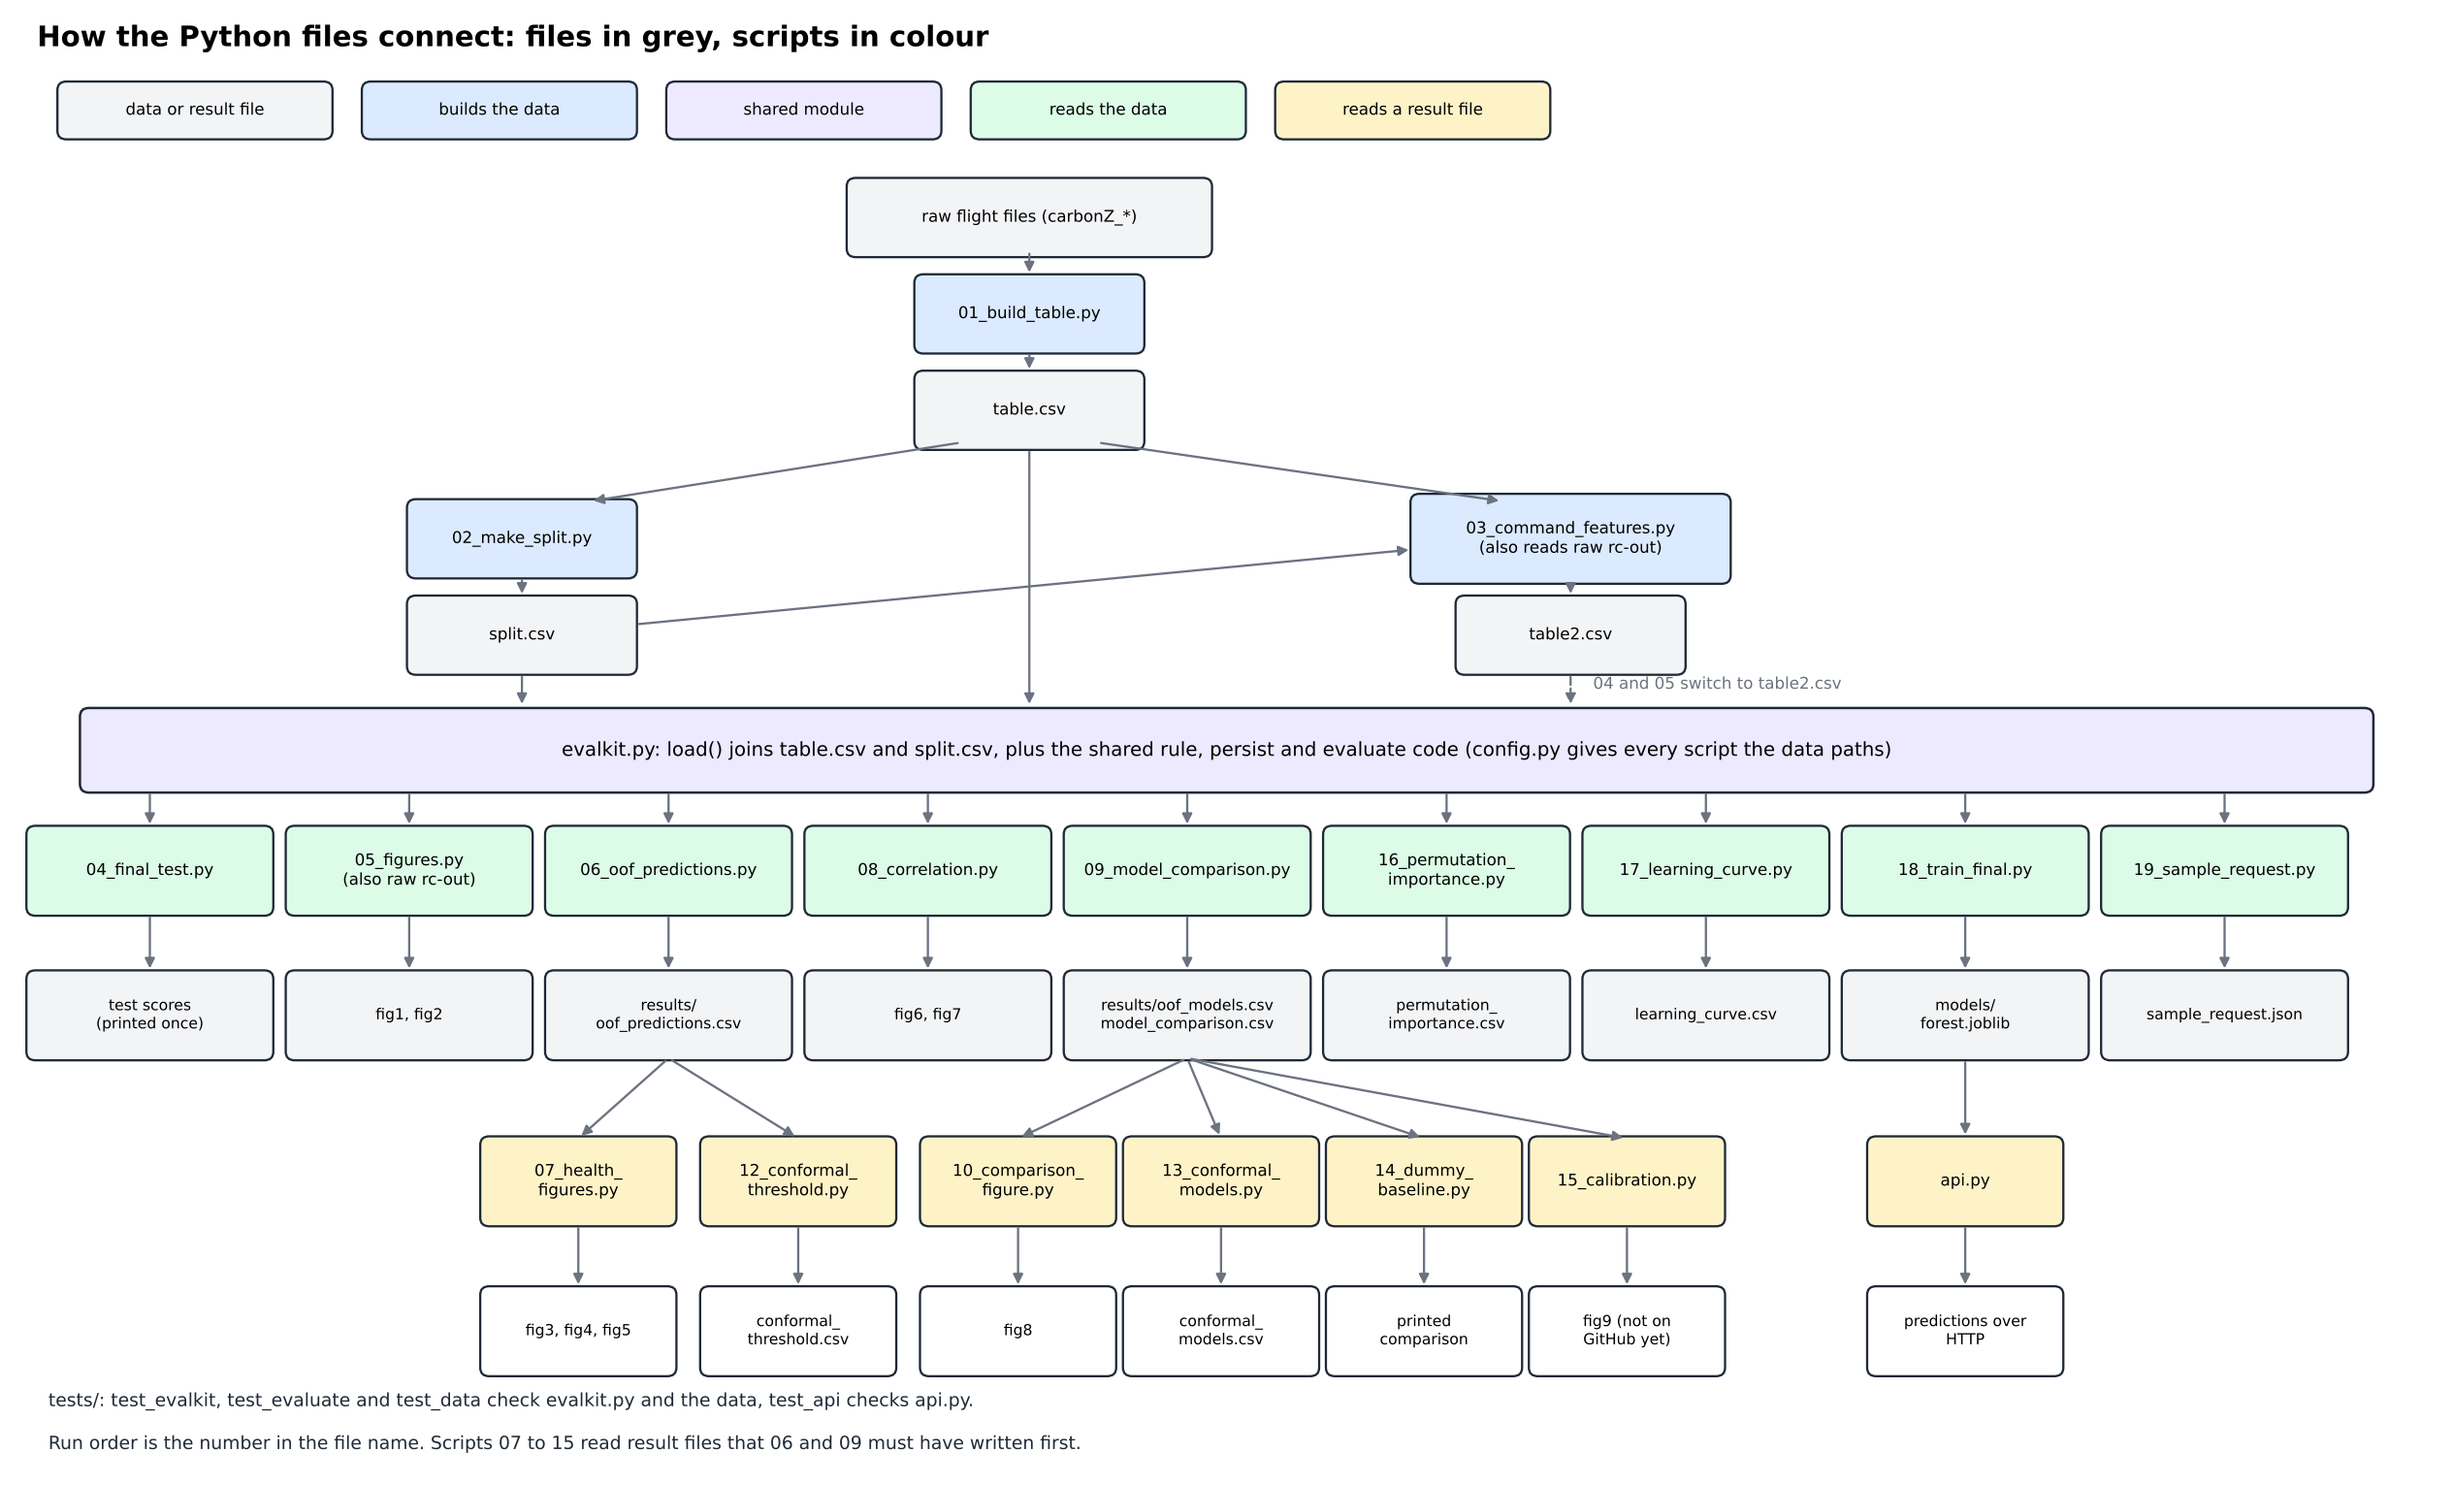
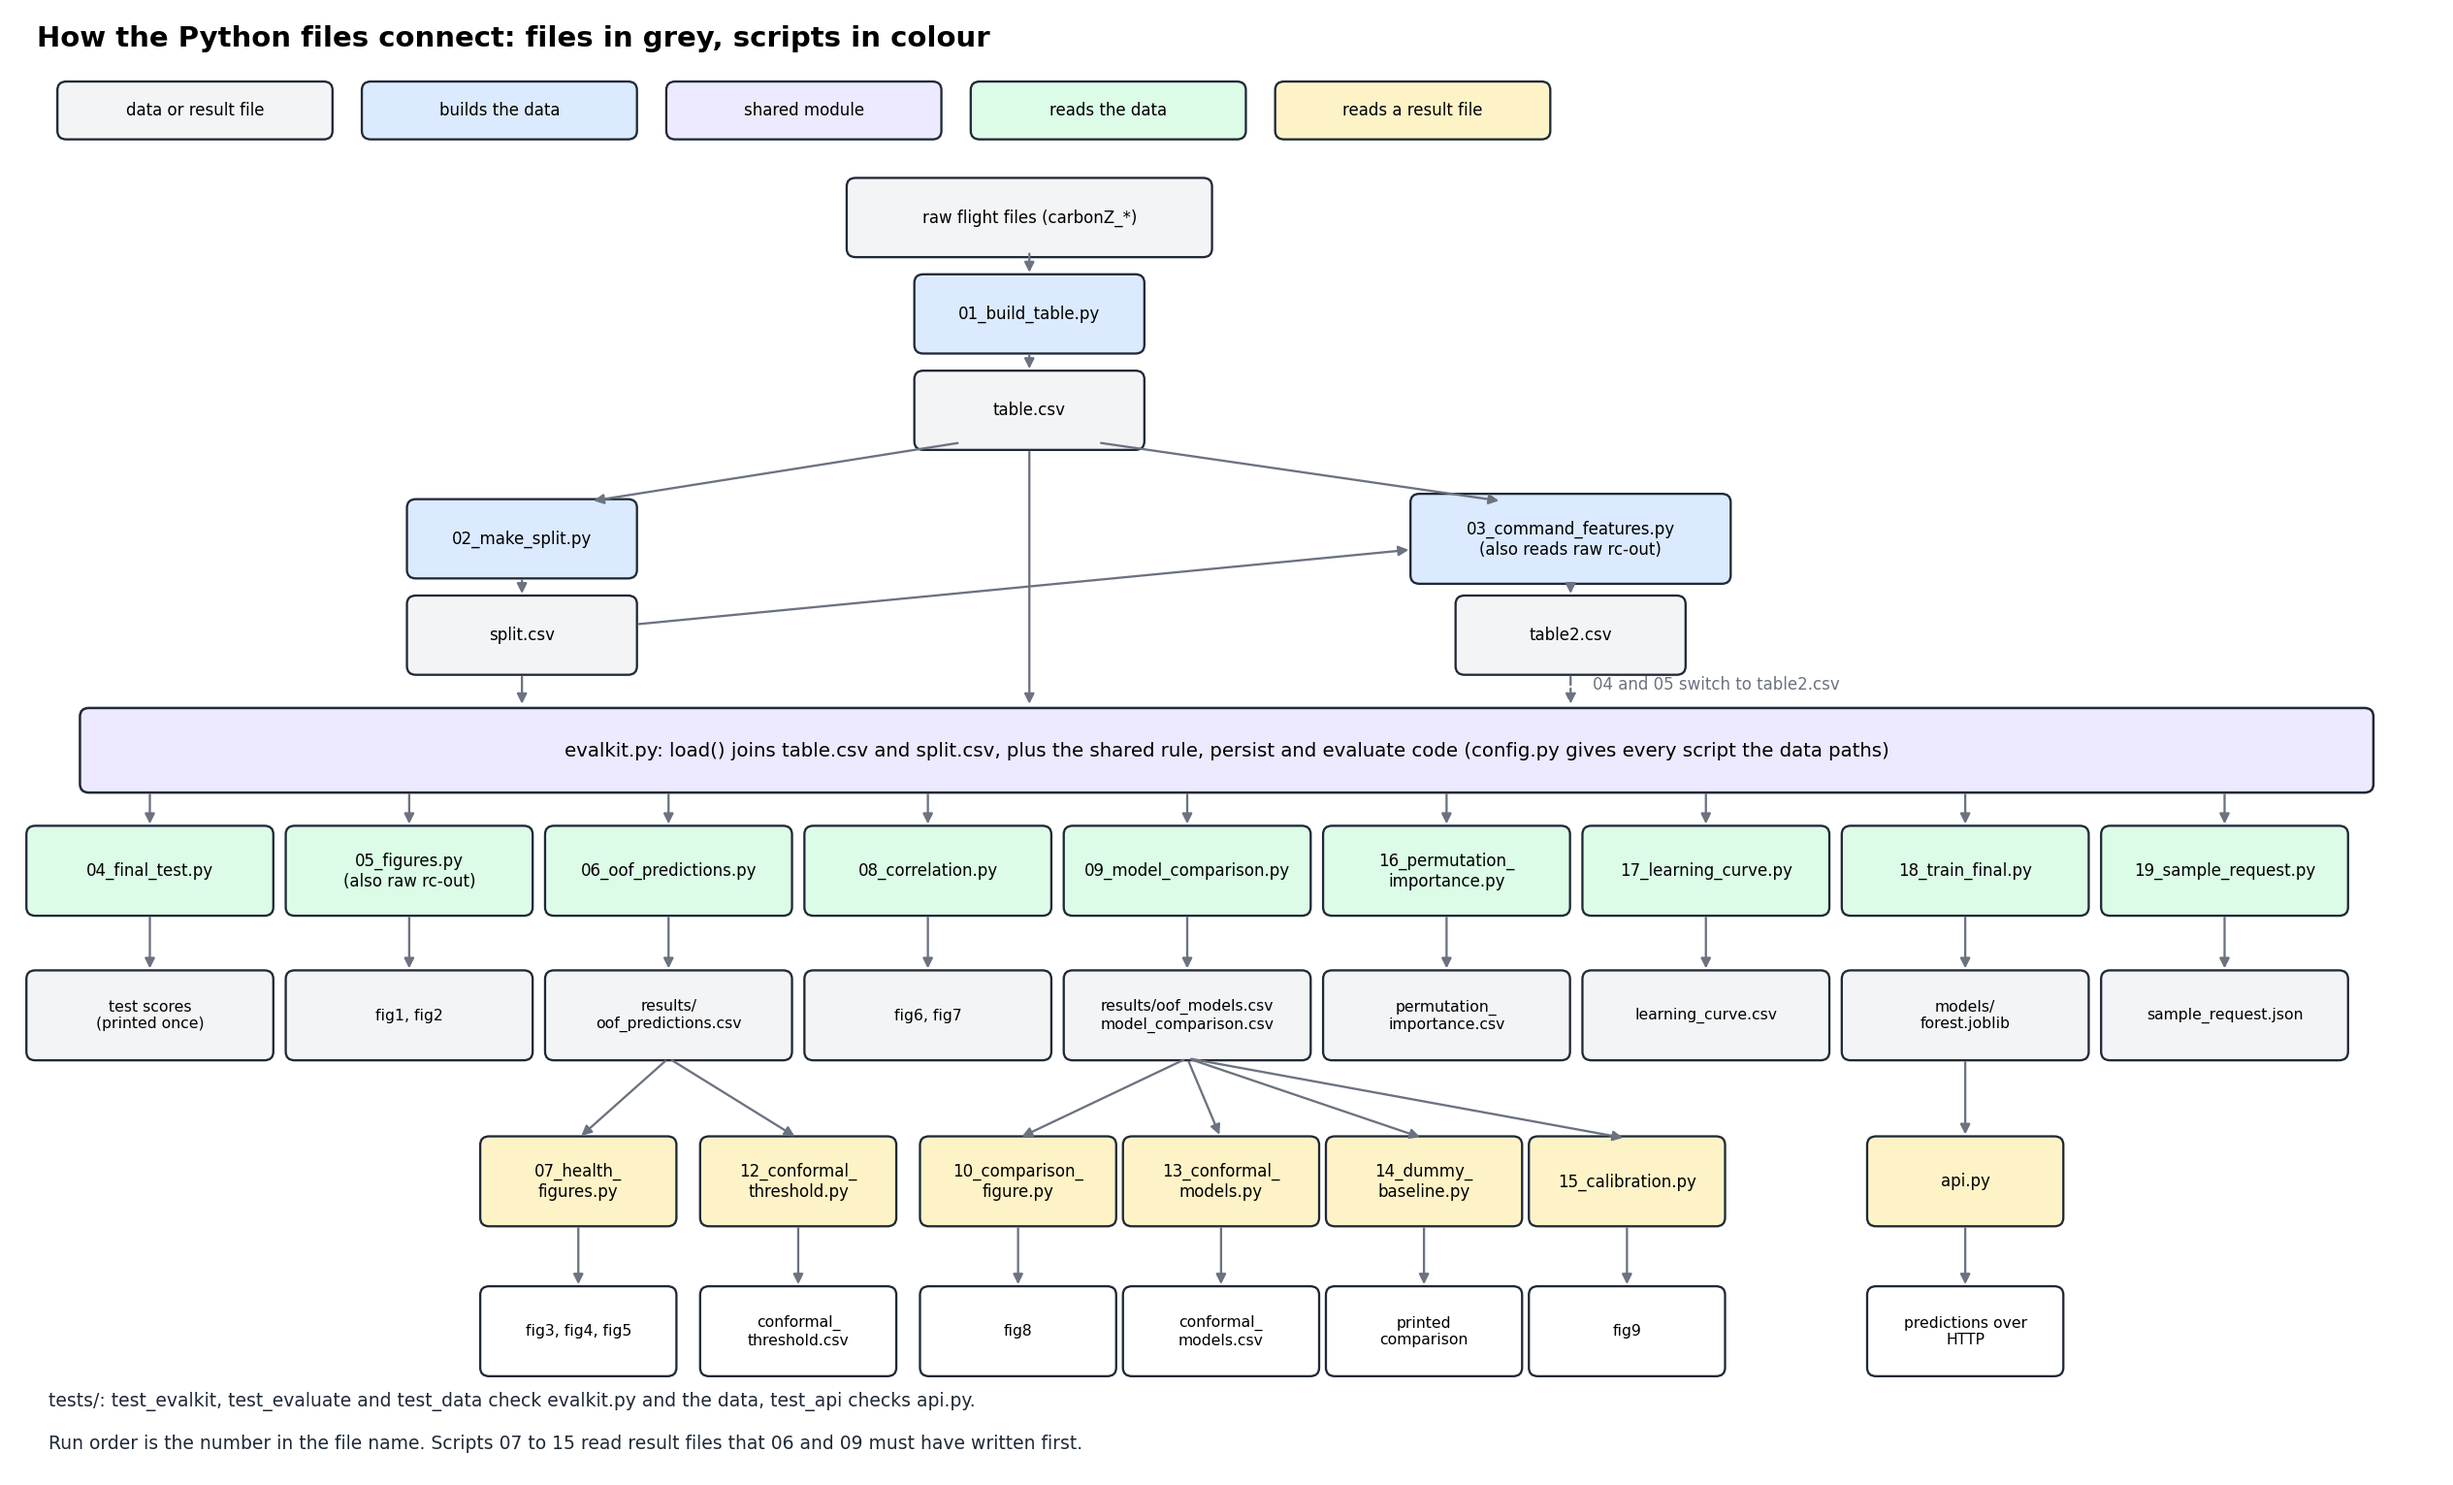
Script map: fig9 is on GitHub now; roadmap item 6 checked

diff --git a/src/make_gifs.py b/src/make_gifs.py
@@ -401,7 +401,7 @@ REP = [(5.0, "07_health_\nfigures.py", 2, "fig3, fig4, fig5", "out"),
        (8.9, "10_comparison_\nfigure.py", 4, "fig8", "out"),
        (10.7, "13_conformal_\nmodels.py", 4, "conformal_\nmodels.csv", "out"),
        (12.5, "14_dummy_\nbaseline.py", 4, "printed\ncomparison", "out"),
-       (14.3, "15_calibration.py", 4, "fig9 (not on\nGitHub yet)", "out"),
+       (14.3, "15_calibration.py", 4, "fig9", "out"),
        (17.3, "api.py", 7, "predictions\nover HTTP", "out")]
 
 SM = [

diff --git a/src/make_diagrams.py b/src/make_diagrams.py
@@ -255,7 +255,7 @@ def script_map():
 
     outs = [(5.0, "fig3, fig4, fig5"), (6.95, "conformal_\nthreshold.csv"), (8.9, "fig8"),
             (10.7, "conformal_\nmodels.csv"), (12.5, "printed\ncomparison"),
-            (14.3, "fig9 (not on\nGitHub yet)"), (17.3, "predictions over\nHTTP")]
+            (14.3, "fig9"), (17.3, "predictions over\nHTTP")]
     for x, t in outs:
         node(x, 0.9, t, "out", w=1.7, h=0.8, fs=7.5)
         link((x, 1.9), (x, 1.3))

diff --git a/docs/ROADMAP.md b/docs/ROADMAP.md
@@ -18,7 +18,7 @@ No company data goes into this project.
 3. Done: signals by fault type around the fault, `figures/fig_signals_by_fault_type.png` from `src/make_fault_signals.py` (uses the mean5 features, not raw readings).
 4. Done: detector flow, `figures/diagram5_detectors.png` from `src/make_diagrams.py`. Diagram 2 also fixed (script name 07_health_figures.py, fig9 box no longer touches fig8).
 5. Turn every picture into a step-by-step GIF with a caption on each step (script `src/make_gifs.py`). Done: GIF 1 time window, GIF 2 pipeline, GIF 3 split (with real split tables), GIF 4 script map, GIF 5 where the numbers come from (real rows of one engine-fault flight), GIF 6 the fig7 cell 0.65, and `walkthrough_numbers.mp4` (GIF 5 and 6 joined). Data snippets for them are in `docs/gif_data/` (made by `src/export_gif_data.py`, drawn by `src/make_gifs_data.py`). To do: the other 27 fig7 cells, std5 and delta10 traces over a whole flight. To do: Then possibly one short video that joins them, linked from the README.
-6. Fix the pipeline-map widget (fig8 reads `model_comparison.csv`, and the right panel shows engine-fault recall) and animation steps 5 and 6 (pooling happens after per-flight demeaning).
+6. Done: the two errors were in a chat widget, not in the repo. The repo pictures were checked on 2026-11-14: diagram 4 and GIF 4 show fig8 reading `model_comparison.csv`, gif_fig8 shows engine recall on the right panel, and gif6 removes the flight average before the sum. The stale "fig9 (not on GitHub yet)" label in diagram 4 and GIF 4 was removed.
 
 ### B. README
 7. Done: the README Summary and Results table already cover it.
